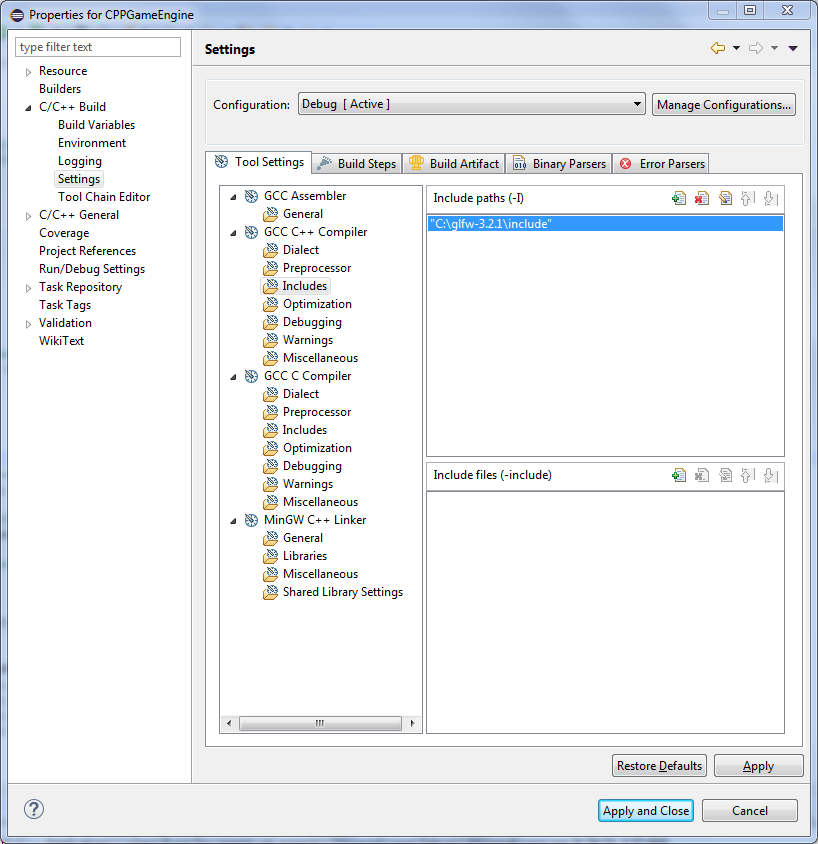
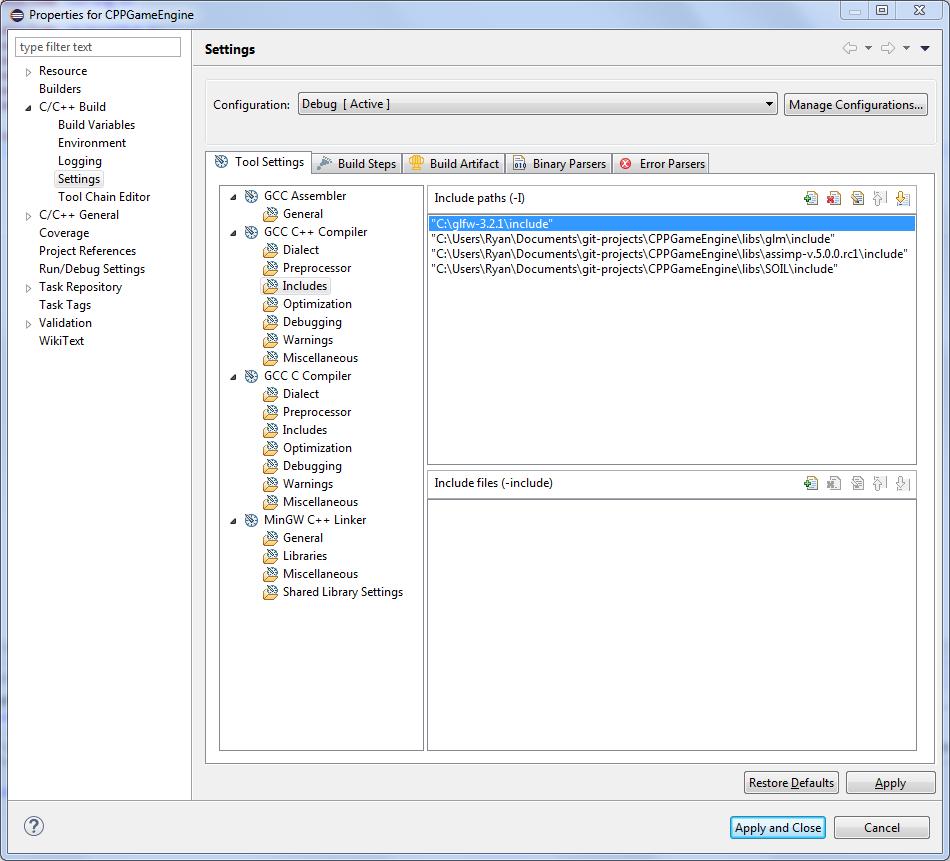
add assimp, SOIL, glm

Changed region(s): [[0.0, 0.0, 1.0, 1.0], [0.7335, 0.0, 0.8252, 0.0616]]

diff --git a/src/CPPGameEngine.cpp b/src/CPPGameEngine.cpp
@@ -1,4 +1,12 @@
+#include <stdio.h>
+#include <string.h>
+
 #include <GLFW/glfw3.h>
+#include <assimp/Importer.hpp>
+#include <assimp/scene.h>
+#include <assimp/postprocess.h>
+#include <SOIL.h>
+#include <glm.hpp>
 
 int main(void) {
 	GLFWwindow* window;
